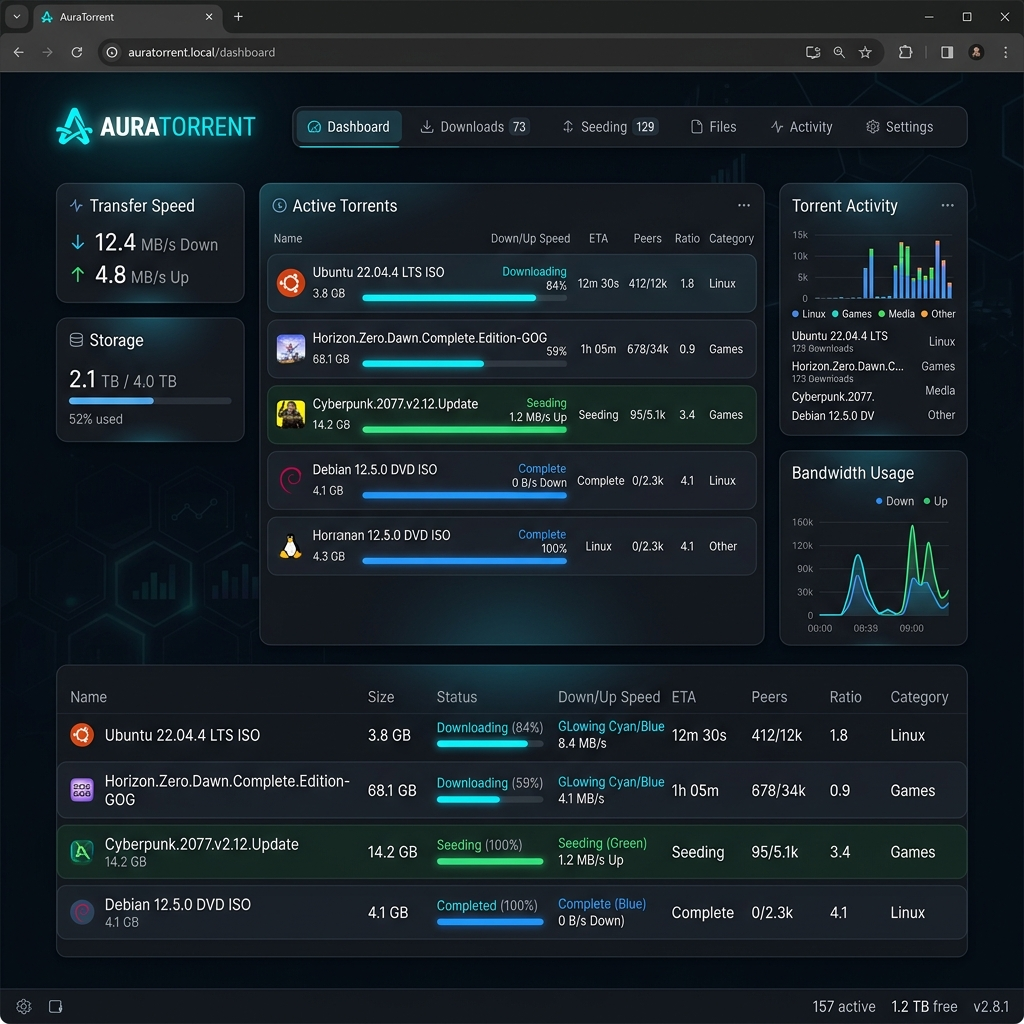
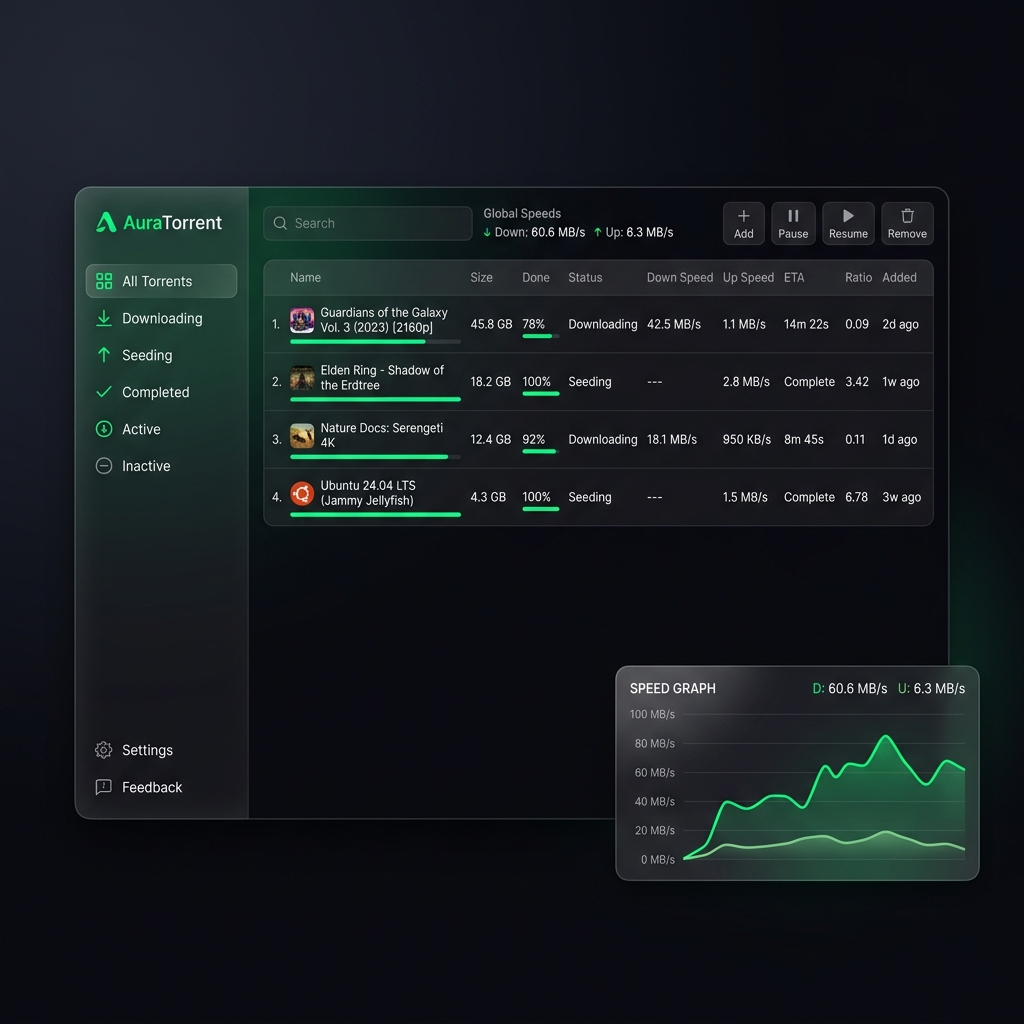
updated README images and added live screenshot

diff --git a/README.md b/README.md
@@ -12,26 +12,27 @@
   <img src="https://img.shields.io/github/v/release/BiosSystem/AuraTorrent?color=00ff72&style=flat-square" alt="Version">
   <img src="https://img.shields.io/badge/qBittorrent-4.4%2B-blue?style=flat-square" alt="qBittorrent">
   <img src="https://img.shields.io/github/license/BiosSystem/AuraTorrent?style=flat-square" alt="License">
+  <img src="https://img.shields.io/github/stars/BiosSystem/AuraTorrent?style=flat-square&color=00ff72" alt="Stars">
 </p>
 
 ---
 
-**AuraTorrent** is a beautiful, lightning-fast Open Source WebUI for qBittorrent. Built on Vue 3 and Vite, it reimagines the seedbox experience with dynamic scheduling, real-time telemetry HUDs, and deep customization. 
+**AuraTorrent** is a beautiful, lightning-fast open-source WebUI for qBittorrent. Built on Vue 3 and Vite, it reimagines the seedbox experience with dynamic scheduling, real-time telemetry HUDs, and deep customization.
 
 <p align="center">
-  <img src="https://cdn.jsdelivr.net/gh/BiosSystem/AuraTorrent@master/docs/screenshots/screenshot-desktop-dark-mode.png" width="800" alt="Screenshot Desktop" />
+  <img src="docs/screenshots/screenshot-desktop-dark-mode.png" width="800" alt="AuraTorrent Desktop Screenshot" />
 </p>
 
 ## ✨ Why It's Unique
 
 Unlike standard qBittorrent WebUIs, AuraTorrent includes next-gen features designed for power users:
 
-- **Bandwidth Scheduling Matrix**: A 7×24 visual heatmap grid to paint your bandwidth schedule visually. The UI automatically throttles qBittorrent based on the current hour.
-- **AuraTheme Engine**: A live, built-in CSS variable editor. Adjust glassmorphism blur, neon glow intensity, and accent colors in real-time, then export to JSON.
-- **Global Speed Ticker**: Press `Ctrl+Shift+T` anywhere to summon a floating, always-on-top HUD sparkline graph of your current I/O speeds.
-- **The B-I-O-S Easter Egg**: Type `B-I-O-S` on your keyboard to unlock the BiosSystem Kernel Diagnostic HUD.
+- **Bandwidth Scheduling Matrix** — A 7×24 visual heatmap grid to paint your bandwidth schedule visually. The UI automatically throttles qBittorrent based on the current hour.
+- **AuraTheme Engine** — A live, built-in CSS variable editor. Adjust glassmorphism blur, neon glow intensity, and accent colors in real-time, then export to JSON.
+- **Global Speed Ticker** — Press `Ctrl+Shift+T` anywhere to summon a floating, always-on-top HUD sparkline graph of your current I/O speeds.
+- **B-I-O-S Easter Egg** — Type `B-I-O-S` on your keyboard to unlock the BiosSystem Kernel Diagnostic HUD.
 
-## 🎯 Feature Matrix
+## 📊 Feature Matrix
 
 | Feature | AuraTorrent | VueTorrent | Default UI |
 |---|:---:|:---:|:---:|
@@ -39,31 +40,27 @@ Unlike standard qBittorrent WebUIs, AuraTorrent includes next-gen features desig
 | **Multi-Daemon Switcher** | ✅ | ❌ | ❌ |
 | **Visual Bandwidth Heatmap** | ✅ | ❌ | ❌ |
 | **Live Theme Editor Lab** | ✅ | ❌ | ❌ |
+| **Speed Ticker HUD** | ✅ | ❌ | ❌ |
 
-## 📦 Platform Device Matrix
-
-AuraTorrent is responsive across all devices and installs directly into qBittorrent without additional daemons.
+## 🖥 Platform Support
 
 | Platform | Support | Notes |
 |---|:---:|---|
-| **Windows / macOS / Linux** | 🟢 Native | Works in any modern desktop browser (Chrome, Edge, Firefox, Safari). |
-| **iOS / iPadOS** | 🟢 PWA | Add to Home Screen for a native app-like experience without App Store limits. |
-| **Android** | 🟢 PWA | Install via Chrome. Handles `magnet:` links directly. |
-| **Docker / Seedboxes** | 🟢 Supported | Drop the files into your container's WebUI folder or mount via volume. |
+| **Windows / macOS / Linux** | ✅ Native | Works in any modern desktop browser. |
+| **iOS / iPadOS** | ✅ PWA | Add to Home Screen for a native app-like experience. |
+| **Android** | ✅ PWA | Install via Chrome. Handles `magnet:` links directly. |
+| **Docker / Seedboxes** | ✅ Supported | Mount into your container's WebUI folder. |
 
 ## 🚀 Quick Start
-
-Drop this into your terminal to download and extract the latest release:
 
 ```bash
 wget https://github.com/BiosSystem/AuraTorrent/releases/latest/download/auratorrent.zip
 unzip auratorrent.zip -d /path/to/qbittorrent/webui
 ```
-Then, in qBittorrent: Go to `Options -> WebUI`, check **Use alternative Web UI**, and point it to the `/path/to/qbittorrent/webui` folder.
 
-## 🛠 Full Developer Setup
+Then in qBittorrent: go to `Options → WebUI`, check **Use alternative Web UI**, and point it to the folder.
 
-To build from source or contribute:
+## 🛠 Developer Setup
 
 ```bash
 git clone https://github.com/BiosSystem/AuraTorrent.git
@@ -72,12 +69,16 @@ npm install
 npm run dev
 ```
 
-## 🏛 Attribution & Credits
+## 📖 Documentation
 
-AuraTorrent builds upon the extraordinary open-source PWA foundation of **VueTorrent**. We honor and attribute the core architecture to **WDaan** and the VueTorrent contributor community.
+Full documentation is available in the **[Wiki](https://github.com/BiosSystem/AuraTorrent/wiki)**.
+
+## 🙏 Attribution & Credits
+
+AuraTorrent builds upon the open-source PWA foundation of **VueTorrent**. We honor and attribute the core architecture to **WDaan** and the VueTorrent contributor community.
 
 - **Original Repository**: [VueTorrent](https://github.com/VueTorrent/VueTorrent)
 - **License**: GPL-3.0
 
 ---
-*Crafted with passion for the Open Source community by BiosSystem.*
+*Copyright © 2026 BiosSystem | Powered by BiosSystem Kernel*
